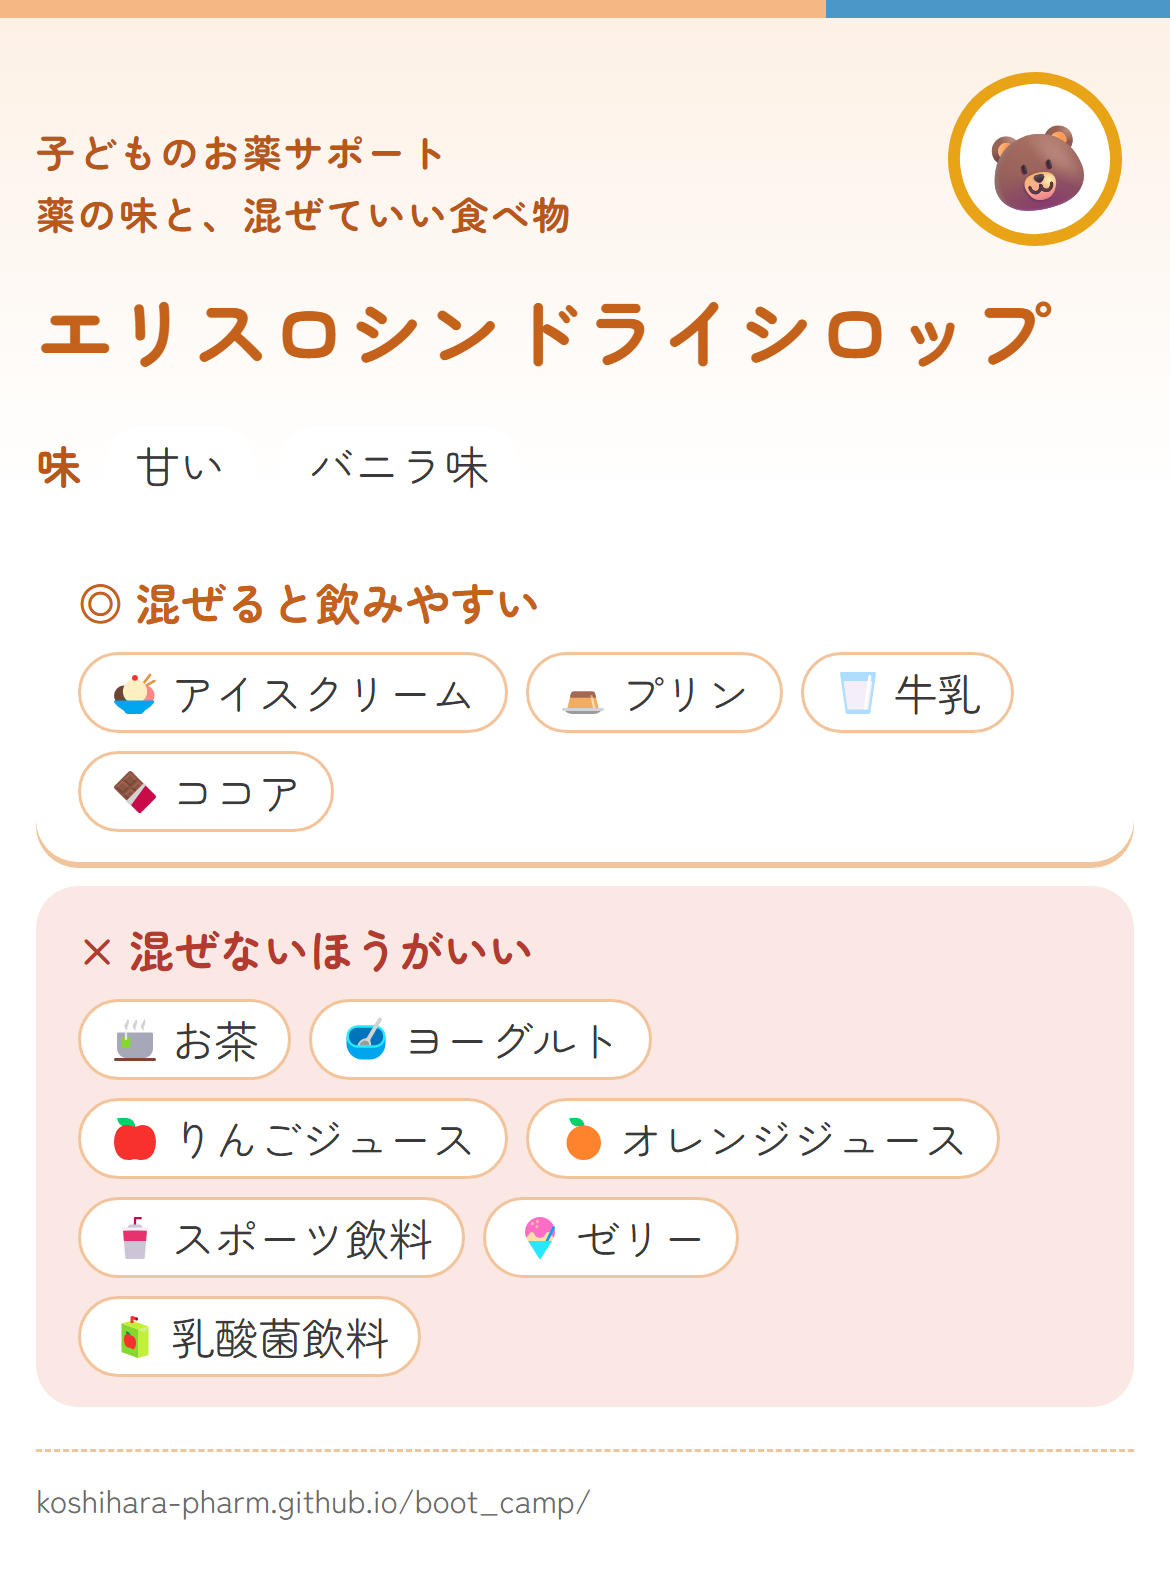
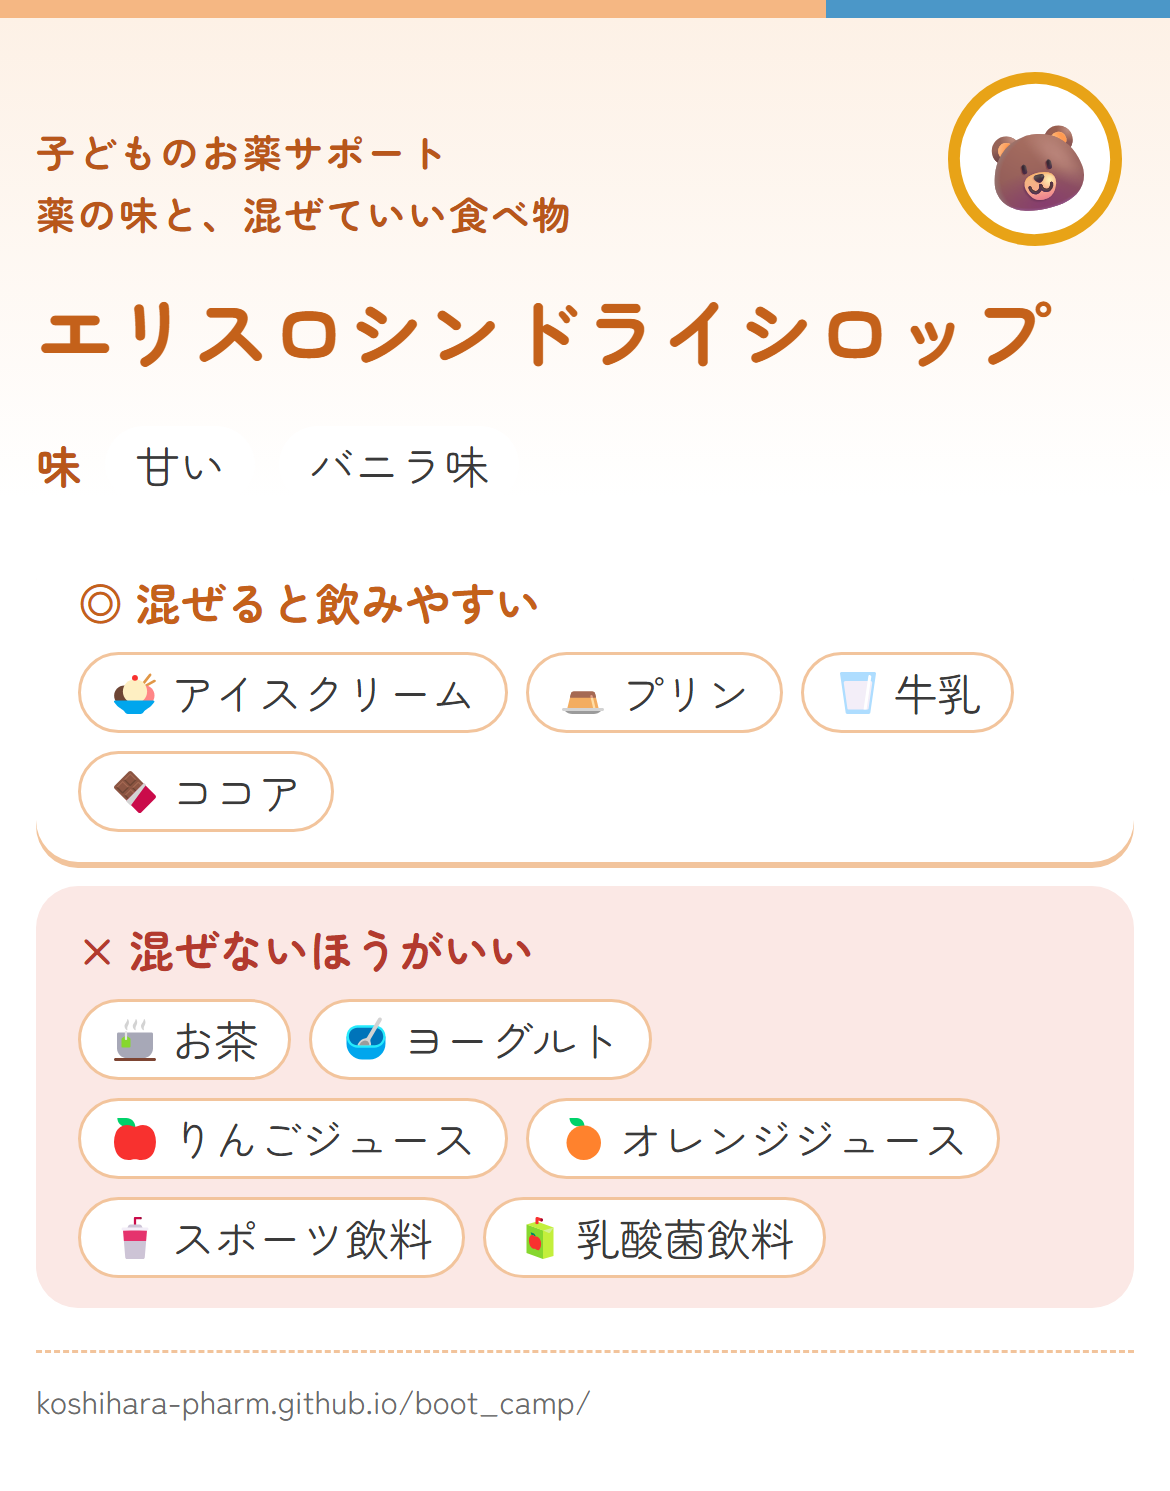
ゼリーの × の3件は控える（薬剤師の判断「根拠が謎」）。足すのは38件、24個の薬

diff --git a/data.js b/data.js
@@ -408,12 +408,11 @@ const FACTS = {
     point: "粉のまわりに、苦さを閉じこめる工夫がしてあります。酸っぱいものに混ぜると、その工夫がはがれて、苦さが出てきます。",
     // アイスクリーム: 飯塚（○・メーカー推奨）、成育（●）。ココア: 飯塚（備考で○）、成育（●）
     // プリン・牛乳: 飯塚（○/×）、成育（●）。お茶: 飯塚（○/×）、成育（▲）。くるみ薬局はプリン・牛乳・ココアが ○、お茶・アイスが △
-    // 2026-11-22 に足した（取りこぼしの調べ。資料の印がぜんぶ同じ向きのものだけ）: × ゼリー
     easy: { foods: ["アイスクリーム", "プリン", "牛乳", "ココア"] },
     good: { foods: ["お茶"] },
     avoid: {
       // 添付文書（オレンジジュース、スポーツ飲料）、PMDA Q8（酸性の飲食物全般）、飯塚・成育（ヨーグルト、りんご、オレンジ、スポーツ飲料。乳酸菌飲料は成育）
-      foods: ["ヨーグルト", "オレンジジュース", "りんごジュース", "スポーツ飲料", "乳酸菌飲料", "ゼリー"],
+      foods: ["ヨーグルト", "オレンジジュース", "りんごジュース", "スポーツ飲料", "乳酸菌飲料"],
       text: "酸っぱいものは苦くなります。メーカーの説明書でも、オレンジジュースやスポーツ飲料で飲むのは避けるように書かれています。",
     },
     tips: [
@@ -425,7 +424,7 @@ const FACTS = {
       "水で溶いたものは作り置きしないで、そのつど用意します。",
     ],
     refs: ["clarisLabel", "pmdaQ8", "iizuka", "ncchd", "kurumiMix"],
-    checked: "薬剤師が確認しました（2026-10-18）。2026-11-22 に、ほかの資料の印がそろっている食べ物を足しました",
+    checked: "薬剤師が確認しました（2026-10-18）",
     // 中身ごとの出どころ（2026-11-16 に、飯塚（2026-10-13 に見比べた版）・成育（2018年の PDF）・くるみ薬局（2018-08-08）の表と照らし合わせて書いた。サイトの画面には出さない）
     why: {
       taste: [["iizuka", "甘い＋やや苦い・ストロベリー"], ["ncchd", "苦い・ストロベリー"], ["kurumiMix", "甘い→苦い・ストロベリー"]],
@@ -441,7 +440,6 @@ const FACTS = {
         "りんごジュース": [["iizuka", "×"], ["ncchd", "× 飲みにくい"]],
         "スポーツ飲料": [["iizuka", "×"], ["ncchd", "× 飲みにくい"], ["clarisLabel", "オレンジジュース・スポーツ飲料で飲むのは避ける"]],
         "乳酸菌飲料": [["ncchd", "× 飲みにくい"]],
-        "ゼリー": [["iizuka","×"]],
       },
       tips: [[["pmdaQ8", ""], ["iizuka", "備考: 酸性の食品と混ぜると、混ぜた直後から苦味が増す"]], [["iizuka", "備考: オレンジジュースと混ぜると力価（効き目）が低下"]], [["clarisLabel", "14.1.2 用時調製。保存は避ける"]]],
     },
@@ -600,10 +598,10 @@ const FACTS = {
     taste: "味つけなし・苦く感じることがある",
     point: "甘いもの（アイス、プリン、牛乳）は飲みやすく、酸っぱいものとお茶は苦手です。",
     // アイス・牛乳: 飯塚（○）、成育（▲）。プリン: どちらも ○ / ●
-    // 2026-11-22 に足した（取りこぼしの調べ。資料の印がぜんぶ同じ向きのものだけ）: × ゼリー、◎ ココア、◎ 乳酸菌飲料、○ みそ汁
+    // 2026-11-22 に足した（取りこぼしの調べ。資料の印がぜんぶ同じ向きのものだけ）: ◎ ココア、◎ 乳酸菌飲料、○ みそ汁
     easy: { foods: ["プリン", "ココア", "乳酸菌飲料"] },
     good: { foods: ["アイスクリーム", "牛乳", "みそ汁"] },
-    avoid: { foods: ["お茶", "ヨーグルト", "りんごジュース", "オレンジジュース", "スポーツ飲料", "ゼリー"] },
+    avoid: { foods: ["お茶", "ヨーグルト", "りんごジュース", "オレンジジュース", "スポーツ飲料"] },
     tips: [TIP_JUST_BEFORE],
     refs: [...THREE_SOURCES, "obihiro"],
     checked: "2026-10-27 に3つの資料（2つの病院と1つの薬局）を見比べてまとめました。2026-11-22 に、ほかの資料の印がそろっている食べ物を足しました（薬剤師の確認待ち）",
@@ -620,7 +618,6 @@ const FACTS = {
         "りんごジュース": [["iizuka", "×"], ["ncchd", "× 飲みにくい"]],
         "オレンジジュース": [["iizuka", "×"], ["ncchd", "× 飲みにくい"]],
         "スポーツ飲料": [["iizuka", "×"], ["ncchd", "× 飲みにくい"]],
-        "ゼリー": [["iizuka","×"], ["obihiro","× 飲みにくい"]],
         "ココア": [["ncchd","● 飲みやすい"], ["obihiro","○ 飲みやすい"], ["kurumiMix","○"]],
         "乳酸菌飲料": [["ncchd","● 飲みやすい"], ["obihiro","その他の欄: 飲みやすい"], ["kurumiMix","○"]],
         "みそ汁": [["kurumiMix","○"]],
@@ -743,11 +740,11 @@ const FACTS = {
   },
   "エリスロシンドライシロップ": {
     basis: "ncchd",
-    // 2026-11-22 に足した（取りこぼしの調べ。資料の印がぜんぶ同じ向きのものだけ）: × ゼリー、◎ ココア、× 乳酸菌飲料
+    // 2026-11-22 に足した（取りこぼしの調べ。資料の印がぜんぶ同じ向きのものだけ）: ◎ ココア、× 乳酸菌飲料
     easy: { foods: ["アイスクリーム", "プリン", "牛乳", "ココア"] },
-    avoid: { foods: ["お茶", "ヨーグルト", "りんごジュース", "オレンジジュース", "スポーツ飲料", "ゼリー", "乳酸菌飲料"] },
+    avoid: { foods: ["お茶", "ヨーグルト", "りんごジュース", "オレンジジュース", "スポーツ飲料", "乳酸菌飲料"] },
     tips: [TIP_JUST_BEFORE],
-    refs: [...ONE_TABLE_NCCHD, "iizuka", "obihiro"],
+    refs: [...ONE_TABLE_NCCHD, "obihiro"],
     checked: "2026-10-18 に1つの病院の資料をもとにまとめました。2026-11-22 に、ほかの資料の印がそろっている食べ物を足しました（薬剤師の確認待ち）",
     // 中身ごとの出どころ（2026-11-16 に、飯塚（2026-10-13 に見比べた版）・成育（2018年の PDF）・くるみ薬局（2018-08-08）の表と照らし合わせて書いた。サイトの画面には出さない）
     why: {
@@ -761,7 +758,6 @@ const FACTS = {
         "りんごジュース": [["ncchd", "× 飲みにくい"]],
         "オレンジジュース": [["ncchd", "× 飲みにくい"]],
         "スポーツ飲料": [["ncchd", "× 飲みにくい"]],
-        "ゼリー": [["iizuka","×"], ["obihiro","× 飲みにくい"]],
         "ココア": [["ncchd","● 飲みやすい"], ["obihiro","○ 飲みやすい"]],
         "乳酸菌飲料": [["ncchd","× 飲みにくい"]],
       },
